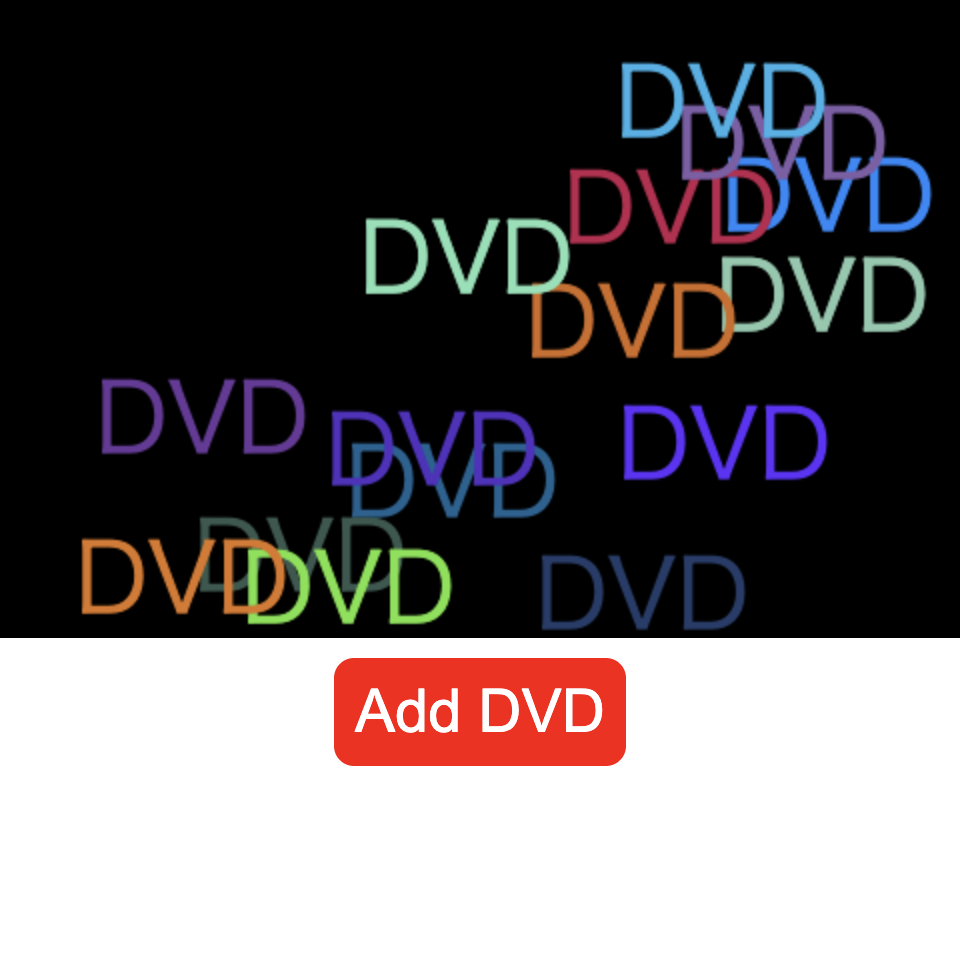
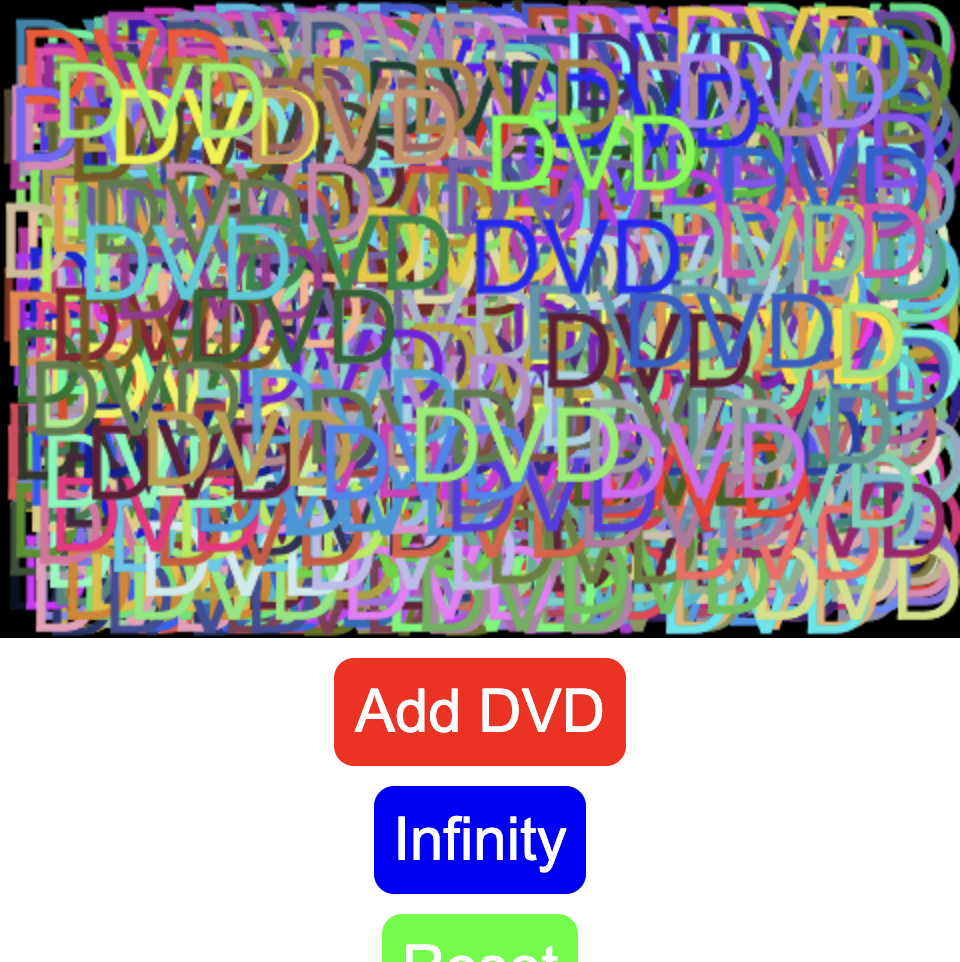
Add inf

diff --git a/js/main.js b/js/main.js
@@ -23,6 +23,8 @@ class Dvds {
 
 dvd_list = []
 
+var infinity = false;
+
 function add_dvd() {
     dvd_list.push(new Dvds(
         getRandomInt(60, canvas.width - 60),
@@ -31,7 +33,15 @@ function add_dvd() {
         2 * getRandomInt(0, 2) - 1,
         getRandomColor()
         ));
-    
+}
+
+function inf() {
+    infinity = true;
+}
+
+function res() {
+    dvd_list.splice(1);
+    infinity = false;
 }
 
 add_dvd();
@@ -57,10 +67,16 @@ function draw() {
         if (element.x + element.dx > canvas.width - text_info.actualBoundingBoxLeft|| element.x + element.dx < text_info.actualBoundingBoxRight)  { // もしx軸上の範囲外に行ったら
             element.dx = -element.dx; // dxの正負を逆転
             element.color = getRandomColor();
+            if (infinity === true) {
+                add_dvd();
+            }
         }
         if (element.y + element.dy > canvas.height - text_info.actualBoundingBoxDescent || element.y + element.dy < text_info.actualBoundingBoxAscent) { // もしy軸上の範囲外に行ったら
             element.dy = -element.dy; // dyの正負を逆転
             element.color = getRandomColor();
+            if (infinity === true) {
+                add_dvd();
+            }
         }
         element.x += element.dx;
         element.y += element.dy;

diff --git a/index.html b/index.html
@@ -18,7 +18,9 @@
 </head>
 <body>
     <canvas id="myCanvas" width="480" height="320"></canvas>
-    <input type="button" value="Add DVD" onclick="add_dvd();"/>
+    <input type="button" class="add" value="Add DVD" onclick="add_dvd();"/>
+    <input type="button" class="inf" value="Infinity" onclick="inf();"/>
+    <input type="button" class="res" value="Reset" onclick="res();"/>
     <script type="text/javascript" src="./js/main.js"></script>
 </body>
 </html>  

diff --git a/css/main.css b/css/main.css
@@ -13,8 +13,16 @@ input {
     margin-top: 10px;
     font-size: 30px;
     padding: 10px;
-    background: #FF0000;
     border: 0;
     color: #FFFFFF;
     border-radius: 10px;
+}
+.add {
+    background: #FF0000;
+}
+.inf {
+    background: #0000FF;
+}
+.res {
+    background: #00FF00;
 }
